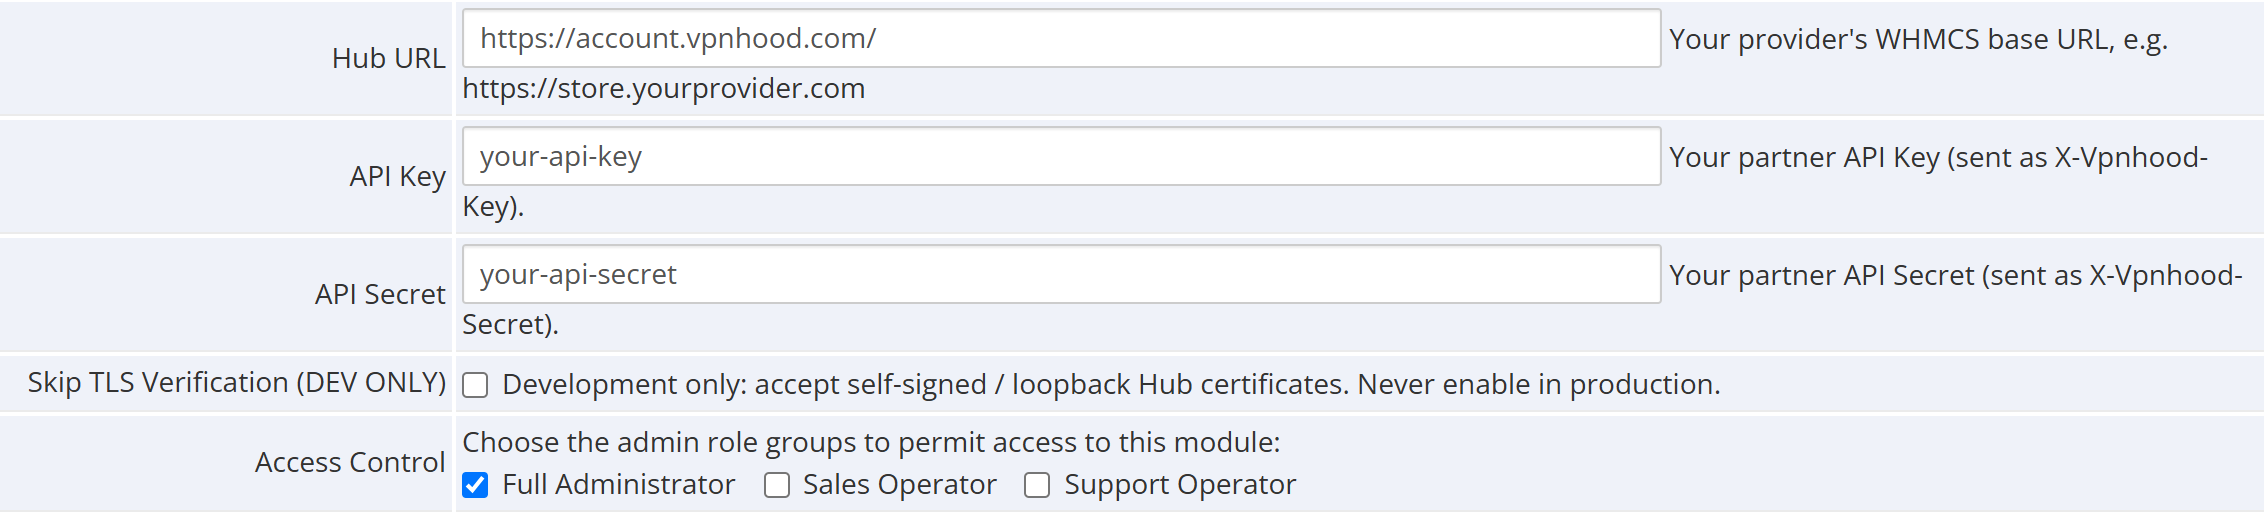
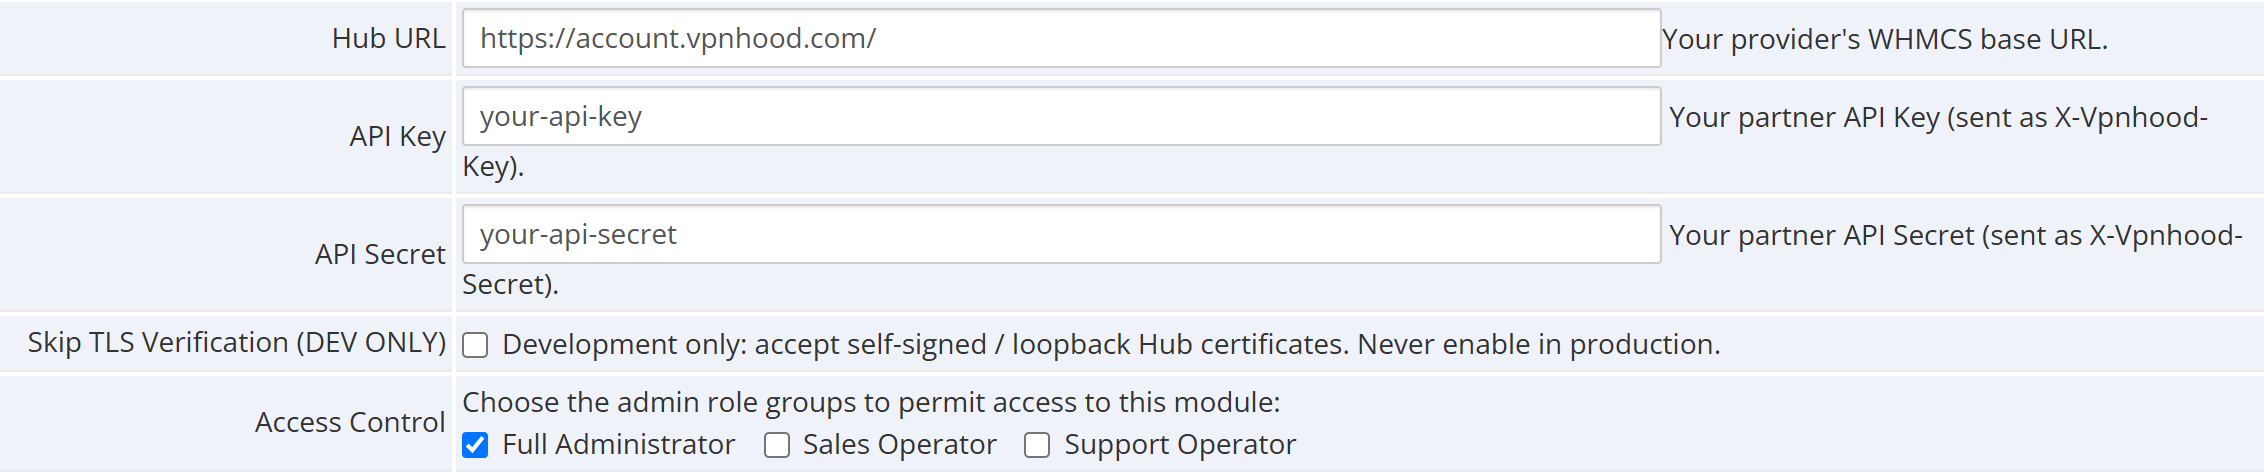
Update Hub URL description in configuration and enhance screenshot capture logic

diff --git a/scripts/capture-screenshots.js b/scripts/capture-screenshots.js
@@ -35,6 +35,15 @@ const PRODUCT_ID = process.env.WHMCS_PRODUCT_ID || '';
 // the screenshot shows a partner what they will actually see.
 const DEFAULT_HUB_URL = 'https://account.vpnhood.com/';
 
+// The install being captured may be running an older build than the repo, whose Hub URL
+// field description still shows a stale example address. Render the description the
+// SHIPPED module has, so the screenshot documents the version being released rather
+// than whatever happens to be deployed on the capture source.
+//
+// Keep this identical to the 'Description' of the HubUrl field in
+// modules/addons/vpnhoodpartnerconfig/vpnhoodpartnerconfig.php.
+const HUB_URL_DESCRIPTION = "Your provider's WHMCS base URL.";
+
 const PLACEHOLDERS = [
   ['[vpnhoodpartnerconfig][HubUrl]', DEFAULT_HUB_URL],
   ['[vpnhoodpartnerconfig][ApiKey]', 'your-api-key'],
@@ -46,7 +55,14 @@ const PLACEHOLDERS = [
 ];
 
 async function redact(page) {
-  await page.evaluate((pairs) => {
+  await page.evaluate(({ pairs, hubDescription }) => {
+    // Bring an older deployed build's field description up to what the repo ships.
+    // Matched on the stale example address it is the only thing carrying.
+    const descWalker = document.createTreeWalker(document.body, NodeFilter.SHOW_TEXT);
+    for (let n = descWalker.nextNode(); n; n = descWalker.nextNode()) {
+      if (/yourprovider\.com/i.test(n.nodeValue)) n.nodeValue = hubDescription;
+    }
+
     for (const [frag, val] of pairs) {
       document.querySelectorAll('input,textarea').forEach((el) => {
         if ((el.name || '').includes(frag)) {
@@ -84,7 +100,7 @@ async function redact(page) {
     document.querySelectorAll('.global-admin-warning, .alert-warning').forEach((el) => {
       if (/Hooks Debug Mode/i.test(el.textContent || '')) el.remove();
     });
-  }, PLACEHOLDERS);
+  }, { pairs: PLACEHOLDERS, hubDescription: HUB_URL_DESCRIPTION });
 }
 
 async function assertClean(page, selector, label) {
@@ -114,6 +130,10 @@ async function assertClean(page, selector, label) {
         .filter(m => !/^100\.00/.test(m)).forEach(m => bad.push('balance:' + m));
     }
     if (/whmcs-dev|localhost|127\.0\.0\.1/i.test(hay)) bad.push('non-public host in frame');
+    // Placeholder addresses that no longer exist in the module's own text. If one is
+    // still in frame, the deployed build is older than the repo AND the substitution
+    // above failed to catch it.
+    if (/yourprovider\.com/i.test(hay)) bad.push('stale example URL in frame');
     return bad;
   }, selector);
 

diff --git a/modules/addons/vpnhoodpartnerconfig/vpnhoodpartnerconfig.php b/modules/addons/vpnhoodpartnerconfig/vpnhoodpartnerconfig.php
@@ -52,8 +52,7 @@ function vpnhoodpartnerconfig_config()
                 'FriendlyName' => 'Hub URL',
                 'Type'         => 'text',
                 'Size'         => '60',
-                'Description'  => 'Your provider\'s WHMCS base URL. Pre-filled with VpnHood\'s own hub — '
-                    . 'change it only if your provider gave you a different address.',
+                'Description'  => 'Your provider\'s WHMCS base URL.',
                 // Pre-filled so the common case needs no typing. WHMCS applies a Default
                 // when the setting does not exist yet, i.e. on a fresh activation; it never
                 // overwrites a value a partner has already saved. HubClient trims any
